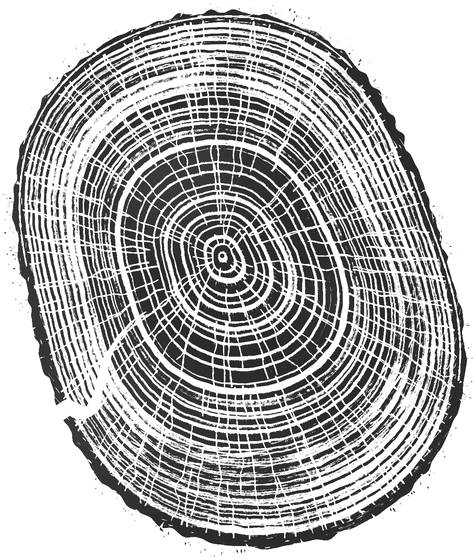
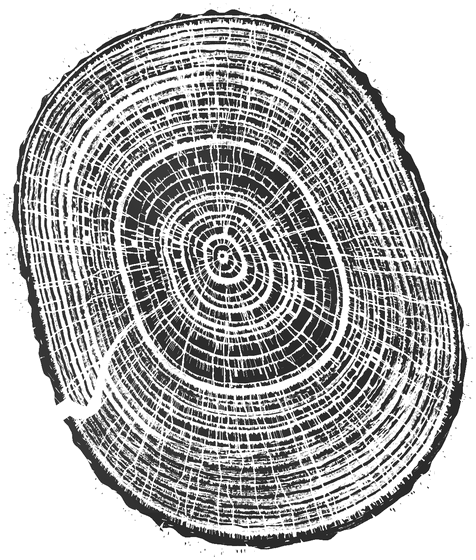
Grove: ground height once per pixel (GPU derivatives); shadow hatching on the GPU; oak, ash, pine slices re-pressed
Claude-Session: https://claude.ai/code/session_01WhGxUDQ2nhT1B8pKnZrdq5

diff --git a/src/rings/gpu.ts b/src/rings/gpu.ts
@@ -246,7 +246,10 @@ float heightC(vec2 p) { return heightW((p - vec2(uCamX0, uCamY0)) / uCamS); }
 float seg(vec2 p, vec2 a, vec2 b) { vec2 ab = b - a; float t = clamp(dot(p - a, ab) / max(1e-6, dot(ab, ab)), 0., 1.); return length(p - a - ab * t); }
 void main() {
   vec2 p = vec2(gl_FragCoord.x - 0.5, uH - gl_FragCoord.y - 0.5), rf = p * uRs + vec2(uRx0, uRy0);
-  float z = heightC(p), st = 4. * uU, zx = heightC(p + vec2(st, 0.)) - z, zy = heightC(p + vec2(0., st)) - z;
+  // (The height worked out once a pixel; how it changes from the chip's own neighbours.)
+  float z = heightC(p), st = 4. * uU;
+  vec2 dz = vec2(dFdx(z), -dFdy(z));
+  float zx = dz.x * st, zy = dz.y * st;
   vec4 col = vec4(0.);
   // The wash: pale, pooling darker in the folds, thin on the tops, fading out at the hill's foot.
   if (z >= 0.1) {
@@ -269,7 +272,7 @@ void main() {
     float hh = h1(float(i) * 127.1 + float(j) * 311.7 + uSeed37);
     vec2 c = ((vec2(float(i) + h1(hh * 91.7), float(j) + h1(hh * 53.3))) * G - vec2(uRx0, uRy0)) / uRs;
     if (length(p - c) > 6. * uU) continue;
-    float zc = heightC(c), dense = 0.05 + 0.2 * (1. - clamp((zc - 0.05) / 0.6, 0., 1.));
+    float zc = z + dot(dz, c - p), dense = 0.05 + 0.2 * (1. - clamp((zc - 0.05) / 0.6, 0., 1.));
     if (hh > dense) continue;
     if (uTufts > 0. && h1(hh * 17.9) < 0.7) {
       float L = uU * (0.9 + 0.9 * h1(hh * 7.7)) * min(uKz, 3.) * 0.7;
@@ -286,7 +289,7 @@ void main() {
   col = over(vec4(INK, 1.) * 0.32 * dots, col);
   col = over(vec4(INK, 1.) * 0.4 * uTufts * blades, col);
   // The contours, by hand: fine and pale, every fourth firmer, broken now and then in long stretches.
-  float gz = max(1e-6, length(vec2(heightC(p + vec2(1., 0.)) - z, heightC(p + vec2(0., 1.)) - z)));
+  float gz = max(1e-6, length(dz));
   for (int li = 0; li < 16; li++) {
     if (li >= uLvN) break;
     float L = uLv[li], major = uLvMajor[li], d = abs(z - L) / gz;
@@ -324,11 +327,40 @@ void main() {
 }
 `;
 
+/**
+ * The grove's shadows hatched by hand, inside a mask (uSrc): fine diagonal strokes, each its own distance from
+ * the last, a little off true, heavier or lighter, broken now and then (as press.ts strokes them by hand).
+ */
+const HATCH = COMMON + `
+uniform sampler2D uSrc;
+uniform float uH, uU;
+const vec3 INK = vec3(36., 28., 23.) / 255.;
+void main() {
+  float x = gl_FragCoord.x - 0.5, y = uH - gl_FragCoord.y - 0.5;
+  float m = texelFetch(uSrc, ivec2(int(x), int(y)), 0).a;
+  o = vec4(0.);
+  if (m <= 0.) return;
+  float sp = 1.75 * uU, seg = 14. * uU, t = x - y, cov = 0.;
+  float q0 = floor(t / sp);
+  for (int k = -1; k <= 1; k++) {
+    // (A little off true: each stroke's run wanders a fraction of the gap, never across its neighbours.)
+    float q = q0 + float(k), si = floor(y / seg), y0 = si * seg, f = (y - y0) / seg;
+    float c = (q + 0.5 + (h1(q * 1.37) - 0.5) * 0.5 + (h1(q * 2.9 + si) - 0.5) * 0.3 * (f - 0.5)) * sp;
+    float w = (0.28 + 0.22 * h1(q * 3.7)) * uU, d = abs(t - c) * 0.7071;
+    if (h1(q * 7.1 + y0 * 0.013) < 0.12) continue;
+    if (y - y0 > seg * (0.7 + 0.3 * h1(q + y0 * 0.07))) continue;
+    cov = max(cov, clamp(w * 0.5 + 0.5 - d, 0., 1.));
+  }
+  float al = cov * m;
+  o = vec4(INK * al, al);
+}
+`;
+
 const VERT = `#version 300 es
 void main() { vec2 p = vec2(float((gl_VertexID << 1) & 2), float(gl_VertexID & 2)); gl_Position = vec4(p * 2. - 1., 0., 1.); }
 `;
 
-export type Pass = 'years' | 'grain' | 'ground' | 'wash';
+export type Pass = 'years' | 'grain' | 'ground' | 'wash' | 'hatch';
 type Prog = { p: WebGLProgram; loc: Map<string, WebGLUniformLocation | null> };
 let canvas: HTMLCanvasElement | null = null, gl: WebGL2RenderingContext | null = null, failed = false;
 const progs: Record<string, Prog> = {};
@@ -350,7 +382,7 @@ function context(): WebGL2RenderingContext | null {
     for (const k in progs) delete progs[k];
     for (const k in fresh) delete fresh[k];
     srcTex = null;
-    progs.years = build(gl, YEARS); progs.grain = build(gl, GRAIN); progs.ground = build(gl, GROUND); progs.wash = build(gl, WASH);
+    progs.years = build(gl, YEARS); progs.grain = build(gl, GRAIN); progs.ground = build(gl, GROUND); progs.wash = build(gl, WASH); progs.hatch = build(gl, HATCH);
     return gl;
   } catch (e) {
     console.warn('press: no graphics chip, pressing by hand', e);

diff --git a/src/rings/press.ts b/src/rings/press.ts
@@ -2865,6 +2865,16 @@ function* groveSteps(c: CanvasRenderingContext2D, cam: Cam, sprites?: Sprite[]):
     const lc = lay.getContext('2d')!, all = new Path2D();
     for (const t of wildShown) all.addPath(shadeOf(t.x, t.y, t.r, t.sp, t.k, undefined, sun));
     for (const t of shown) if (t.n >= 1) all.addPath(shadeOf(t.x, t.y, t.r, t.sp, t.k, formOf(t.i), sun));
+    // (On the graphics chip, where there is one: the shadows' shape as a mask, hatched there all at once.)
+    let hatched = false;
+    if (gpu.ready()) {
+      lc.fillStyle = '#000'; lc.fill(all, 'nonzero');
+      const pic = gpu.run('hatch', W, H, {}, { uH: H, uU: u }, {}, lay);
+      if (pic) { c.save(); c.globalAlpha = 0.5 * sun.strength; gpu.lay(c, pic, 0, 0); c.restore(); hatched = true; }
+      else lc.clearRect(0, 0, W, H);
+    }
+    if (hatched) yield;
+    else {
     // (By hand: each stroke its own distance from the last, a little off true, broken now and then, heavier
     // or lighter, so it never reads as a ruled fill.)
     lc.strokeStyle = ink(1); lc.lineCap = 'round';
@@ -2883,6 +2893,7 @@ function* groveSteps(c: CanvasRenderingContext2D, cam: Cam, sprites?: Sprite[]):
     lc.globalCompositeOperation = 'destination-in'; lc.fillStyle = '#000'; lc.fill(all, 'nonzero');
     c.save(); c.globalAlpha = 0.5 * sun.strength; c.drawImage(lay, 0, 0); c.restore();
     yield;
+    }
   }
   // (The wood round it: ink and a faint wash only, quieter than the trees grown here.)
   for (const t of wildShown) {

diff --git a/RINGS-HISTORY.md b/RINGS-HISTORY.md
@@ -252,3 +252,5 @@ At about 5× zoom, the time to press the whole screen fell to roughly a quarter 
 **October 18: oak, ash and pine as prints too.** The scanned woods now print as the drawn ones do. Each year is its own, its latewood broader or narrower and heavier or lighter, its edge torn in short bites. The ink is taken or not, never a grey wash, starved here and there to small specks of paper. The scan's own grain, pores and rays are kept inside the bands.
 
 **October 18: tidied.** Dead code is gone: the growing-out animation, and the fine copy that was pressed at rest, which since the graphics chip only ever helped the fallback. The wood's anatomy, its rays and the grain's noise moved out of press.ts into anatomy.ts.
+
+**October 18: the grove's ink lighter to draw.** The ground pass works the hills' height out once a pixel, where it took some fifteen goes before, with its slope from the graphics chip's own neighbours. It costs about half what it did. The shadows' hatching is done on the chip too: their shape laid as a mask, the strokes drawn inside it all at once, each a little off true and broken now and then, instead of thousands of strokes by hand. The crowns, stream and paths are still drawn by hand, a tree a frame, small enough not to show.
